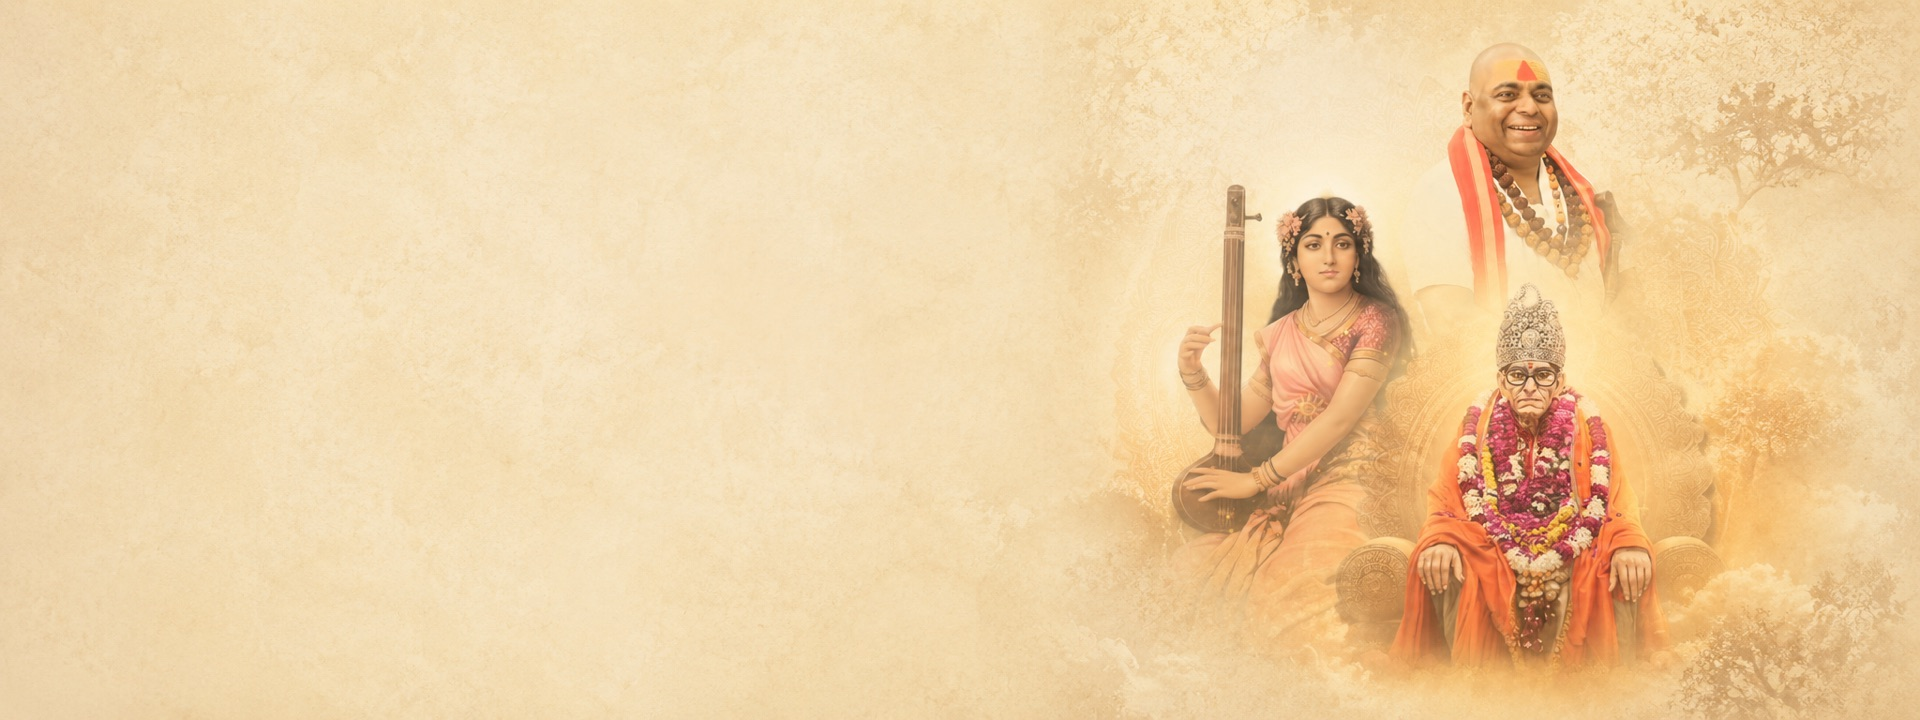
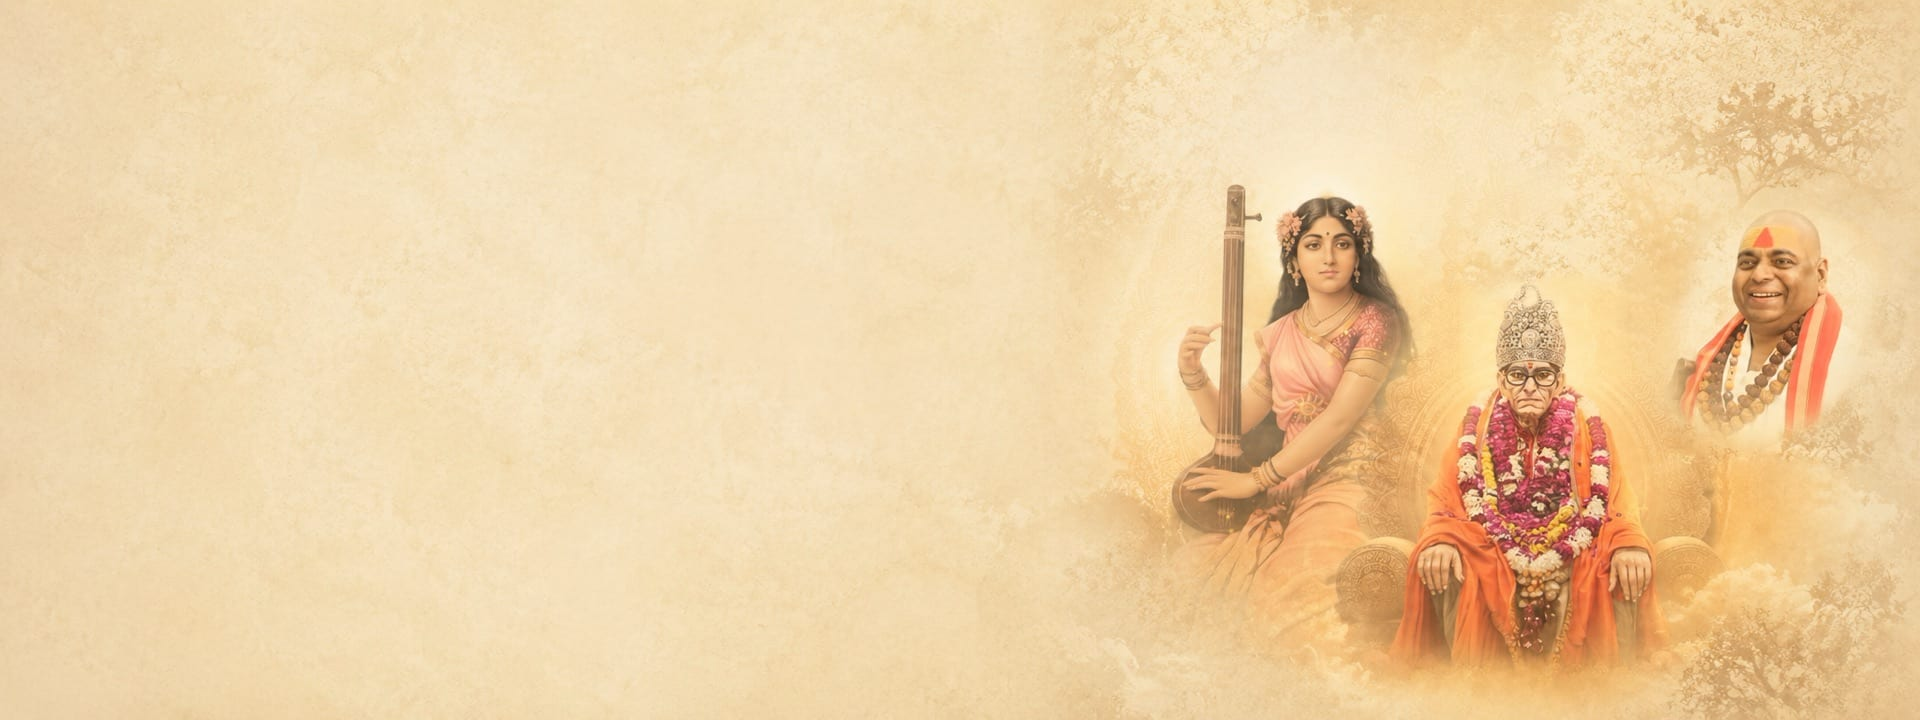
fix: updated aboutus2 + new lineage2 hero (no mirror)

Changed region(s): [[0.875, 0.3056, 0.9688, 0.6417], [0.75, 0.0611, 0.8438, 0.3972]]

diff --git a/src/app/lineage/LineageContent.tsx b/src/app/lineage/LineageContent.tsx
@@ -110,7 +110,7 @@ export default function LineageContent() {
       <main className={styles.page}>
 
         <div className={styles.hero}>
-          <div className={styles.heroBg} style={{ backgroundImage: 'url(/images/lineage.jpg)' }} />
+          <div className={styles.heroBg} style={{ backgroundImage: 'url(/images/lineage2.jpg)', transform: 'none' }} />
           <div className={styles.heroOverlay} />
           <BackLink />
           <div className={styles.heroContent}>
